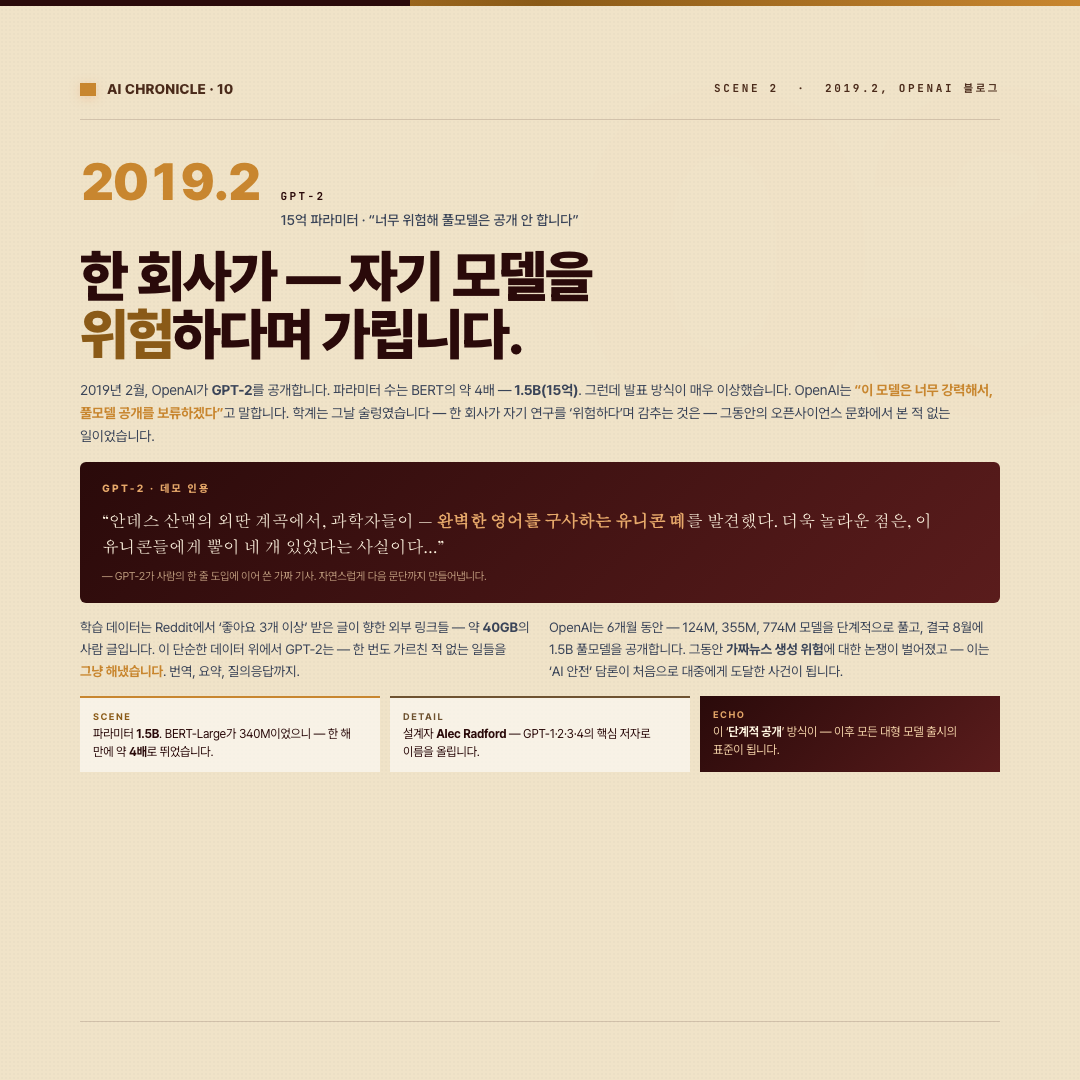
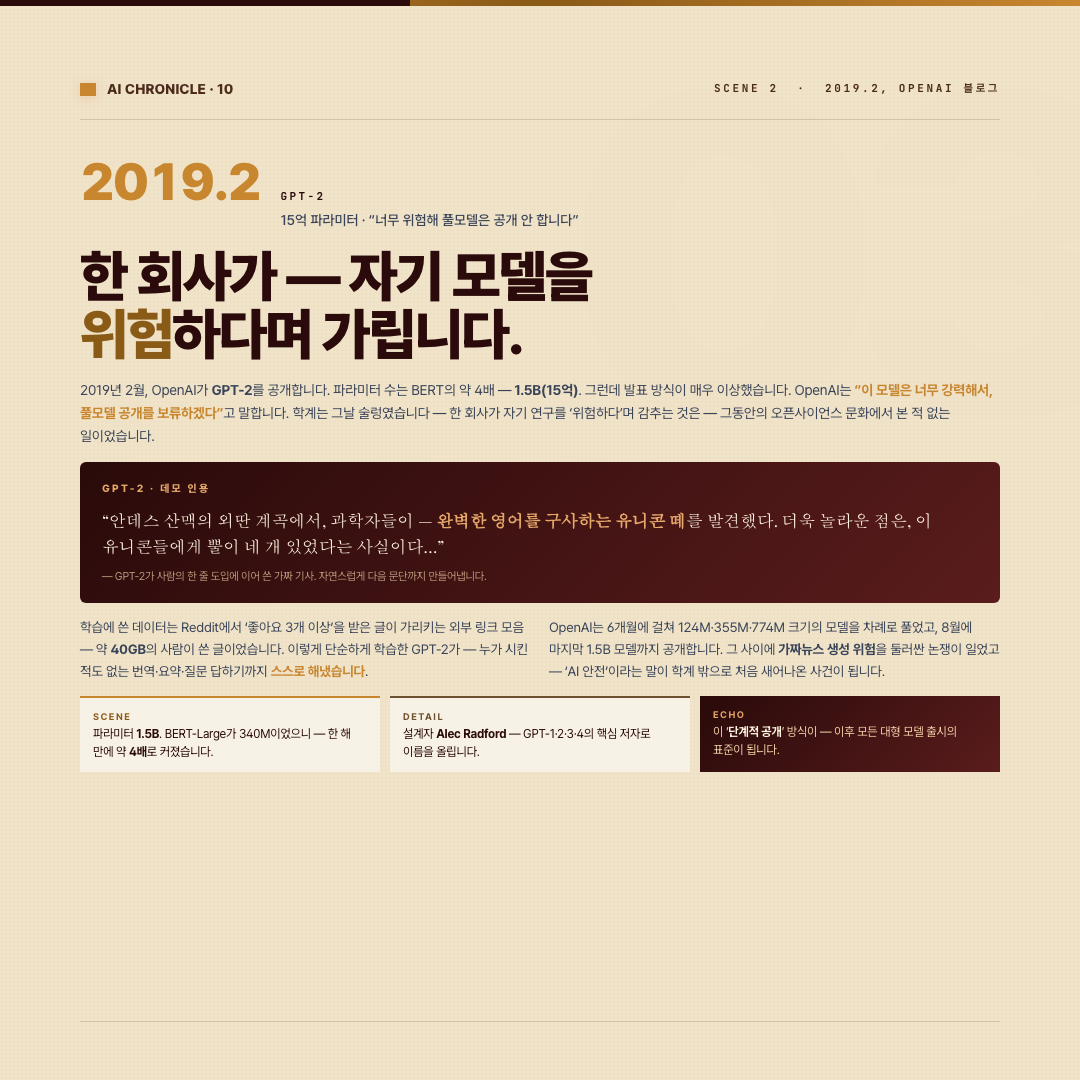
fix(chronicle 10—15): 번역투 다듬기 — 'Reddit 40GB 사람 글' 등 어색한 dash·명사끝맺음 수정
- '향한 외부 링크들 — 약 40GB의 사람 글' → '가리키는 외부 링크 모음, 40GB의 사람이 쓴 글'
- '그냥 해냈습니다 / 번역, 요약, 질의응답까지' → '스스로 해냈습니다 / 누가 시킨 적도 없는 일까지'
- '담론' → '이야기' / '도달' → '퍼짐' / '뛰었습니다' → '커졌습니다'
- 'X — Y이 됩니다' dash 강조 줄이고 자연스러운 문장으로
- 9개 카드 패턴 일괄 치환

Changed region(s): [[0.0611, 0.55, 0.4889, 0.6417], [0.5194, 0.55, 0.9167, 0.6417]]

diff --git a/chronicle-10-cards-gpt/03-gpt2.html b/chronicle-10-cards-gpt/03-gpt2.html
@@ -31,17 +31,17 @@
 
     <div class="split" style="grid-template-columns:1fr 1fr; gap:18px; margin-top:14px;">
       <div class="left">
-        <p class="body-sm" style="font-size:13.5px; line-height:1.6;">학습 데이터는 Reddit에서 ‘좋아요 3개 이상’ 받은 글이 향한 외부 링크들 — 약 <b>40GB</b>의 사람 글입니다. 이 단순한 데이터 위에서 GPT-2는 — 한 번도 가르친 적 없는 일들을 <em>그냥 해냈습니다</em>. 번역, 요약, 질의응답까지.</p>
+        <p class="body-sm" style="font-size:13.5px; line-height:1.6;">학습에 쓴 데이터는 Reddit에서 ‘좋아요 3개 이상’을 받은 글이 가리키는 외부 링크 모음 — 약 <b>40GB</b>의 사람이 쓴 글이었습니다. 이렇게 단순하게 학습한 GPT-2가 — 누가 시킨 적도 없는 번역·요약·질문 답하기까지 <em>스스로 해냈습니다</em>.</p>
       </div>
       <div class="right">
-        <p class="body-sm" style="font-size:13.5px; line-height:1.6;">OpenAI는 6개월 동안 — 124M, 355M, 774M 모델을 단계적으로 풀고, 결국 8월에 1.5B 풀모델을 공개합니다. 그동안 <b>가짜뉴스 생성 위험</b>에 대한 논쟁이 벌어졌고 — 이는 ‘AI 안전’ 담론이 처음으로 대중에게 도달한 사건이 됩니다.</p>
+        <p class="body-sm" style="font-size:13.5px; line-height:1.6;">OpenAI는 6개월에 걸쳐 124M·355M·774M 크기의 모델을 차례로 풀었고, 8월에 마지막 1.5B 모델까지 공개합니다. 그 사이에 <b>가짜뉴스 생성 위험</b>을 둘러싼 논쟁이 일었고 — ‘AI 안전’이라는 말이 학계 밖으로 처음 새어나온 사건이 됩니다.</p>
       </div>
     </div>
 
     <div style="margin-top:14px; display:grid; grid-template-columns:repeat(3, 1fr); gap:10px;">
       <div style="padding:11px 13px; background:rgba(255,255,255,0.55); border-top:2px solid var(--brand);">
         <div style="font-size:9.5px; letter-spacing:1.5px; color:var(--brand-deep); font-weight:700;">SCENE</div>
-        <div style="font-size:12px; line-height:1.5; color:var(--ink);">파라미터 <b>1.5B</b>. BERT-Large가 340M이었으니 — 한 해 만에 약 <b>4배</b>로 뛰었습니다.</div>
+        <div style="font-size:12px; line-height:1.5; color:var(--ink);">파라미터 <b>1.5B</b>. BERT-Large가 340M이었으니 — 한 해 만에 약 <b>4배</b>로 커졌습니다.</div>
       </div>
       <div style="padding:11px 13px; background:rgba(255,255,255,0.55); border-top:2px solid var(--ink-mid);">
         <div style="font-size:9.5px; letter-spacing:1.5px; color:var(--ink-mid); font-weight:700;">DETAIL</div>

diff --git a/chronicle-10-cards-gpt/04-gpt3.html b/chronicle-10-cards-gpt/04-gpt3.html
@@ -15,7 +15,7 @@
       <span class="year">2020.6</span>
       <span class="label"><b>GPT-3</b><span class="sub">1750억 파라미터 · 학습비 약 460만 달러</span></span>
     </div>
-    <h1 class="title sm">예시 — <em>몇 개</em>만 보여주면<br />새 일을 그냥 해냅니다.</h1>
+    <h1 class="title sm">예시 — <em>몇 개</em>만 보여주면<br />새 일을 스스로 해냅니다.</h1>
 
     <div class="split" style="grid-template-columns:1.1fr 1fr; gap:22px; margin-top:14px;">
       <div class="left">
@@ -49,7 +49,7 @@
     <div style="margin-top:14px; display:grid; grid-template-columns:repeat(3, 1fr); gap:10px;">
       <div style="padding:11px 13px; background:rgba(255,255,255,0.55); border-top:2px solid var(--brand);">
         <div style="font-size:9.5px; letter-spacing:1.5px; color:var(--brand-deep); font-weight:700;">SCENE</div>
-        <div style="font-size:12px; line-height:1.5; color:var(--ink);">학습 데이터는 — 인터넷의 거의 전부, 책, 위키 등 <b>약 5천억 토큰</b>.</div>
+        <div style="font-size:12px; line-height:1.5; color:var(--ink);">학습에 쓴 데이터는 — 인터넷의 거의 전부, 책, 위키 등 <b>약 5천억 토큰</b>.</div>
       </div>
       <div style="padding:11px 13px; background:rgba(255,255,255,0.55); border-top:2px solid var(--ink-mid);">
         <div style="font-size:9.5px; letter-spacing:1.5px; color:var(--ink-mid); font-weight:700;">DETAIL</div>

diff --git a/chronicle-13-cards-race/07-bridge.html b/chronicle-13-cards-race/07-bridge.html
@@ -29,7 +29,7 @@
       2024년의 군비경쟁은 디지털 안에 머물지 않았습니다. 같은 시기 NVIDIA의 Jensen Huang은 — ‘<em>Physical AI</em>’라는 새 단어를 던집니다. 화면 안의 AI에서 — 로봇·자동차·공장의 AI로 무대가 옮아간다는 선언이었습니다.
     </p>
     <p class="closing" style="margin-top:12px;">
-      1986년 MIT의 Rodney Brooks가 「<em>Elephants Don’t Play Chess</em>」에서 던진 질문 — <b>진짜 지능은 몸과 환경의 상호작용에서 나온다</b> — 의 응답이 이제 옵니다. Boston Dynamics의 Atlas, Tesla의 Optimus, Figure의 휴머노이드들이 — 같은 무대에 오릅니다.
+      1986년 MIT의 Rodney Brooks가 「<em>Elephants Don’t Play Chess</em>」에서 던진 질문 — <b>진짜 지능은 몸과 환경의 상호작용에서 나온다</b> — 의 응답이 이때 옵니다. Boston Dynamics의 Atlas, Tesla의 Optimus, Figure의 휴머노이드들이 — 같은 무대에 오릅니다.
     </p>
     <p class="closing" style="margin-top:14px; padding:14px 18px; background:linear-gradient(135deg, #0b1a3a 0%, #1a2f5a 100%); color:#dde6f5; border-radius:6px;">
       다음 호 — <b style="color:#ffffff;">Chronicle 14 · 피지컬 AI</b>. 자율주행에서 휴머노이드까지 — <em style="color:#a8c1ed;">AI가 몸을 가집니다</em>.

diff --git a/chronicle-12-cards-capital/07-bridge.html b/chronicle-12-cards-capital/07-bridge.html
@@ -30,7 +30,7 @@
       비영리에서 영리로의 전환은 OpenAI 한 회사의 이야기였지만, 그 변화가 만들어낸 자본의 회로는 — 분야 전체를 다른 풍경으로 끌고 갑니다. 마이크로소프트가 OpenAI를 잡고, 구글이 Gemini로 답하고, 메타가 Llama를 오픈소스로 풀고, Anthropic이 ‘<em>안전</em>’을 명분으로 자본을 끌어모읍니다.
     </p>
     <p class="closing" style="margin-top:12px;">
-      그리고 머스크의 <em>xAI</em>도, 중국의 <em>DeepSeek</em>도 — 같은 정상을 향해 출발합니다. 한때 한 연구소의 목표였던 ‘<b>AGI</b>’가 이제 — 다섯 회사, 두 국가의 군비경쟁이 됩니다.
+      그리고 머스크의 <em>xAI</em>도, 중국의 <em>DeepSeek</em>도 — 같은 곳을 향해 출발합니다. 한때 한 연구소의 목표였던 ‘<b>AGI</b>’가 이제 — 다섯 회사, 두 국가의 군비경쟁이 됩니다.
     </p>
     <p class="closing" style="margin-top:14px; padding:14px 18px; background:linear-gradient(135deg, #1a2a4a 0%, #2a3a6a 100%); color:#e6e0d6; border-radius:6px;">
       다음 호 — <b style="color:#fff5e1;">Chronicle 13 · AGI 군비경쟁</b>. 2023~2024, 회사들이 경주를 시작합니다.

diff --git a/chronicle-15-cards-today/04-autonomy.html b/chronicle-15-cards-today/04-autonomy.html
@@ -39,7 +39,7 @@
       <div style="padding:14px 16px; background:linear-gradient(135deg, rgba(227,82,5,0.10), rgba(255,228,208,0.5)); border-left:3px solid var(--brand);">
         <div style="font-size:10.5px; letter-spacing:0.16em; color:var(--brand-deep); font-weight:800;">새 직업의 등장</div>
         <div style="font-size:12.5px; line-height:1.6; color:var(--ink); margin-top:6px;">
-          <b style="color:var(--navy);">에이전트 모니터링자</b> &mdash; 자율로 움직이는 AI의 행동을 사람이 옆에서 지켜봅니다<br />
+          <b style="color:var(--navy);">에이전트 모니터링자</b> &mdash; 자율로 움직이건 AI의 행동을 사람이 옆에서 지켜봅니다<br />
           <b style="color:var(--navy);">프롬프트 디자이너</b> &mdash; 에이전트에게 시킬 목표를 정확한 문장으로 만드는 일<br />
           <b style="color:var(--navy);">워크플로 매니저</b> &mdash; 여러 에이전트가 협업하는 회사의 흐름을 짜는 사람
         </div>

diff --git a/chronicle-11-cards-chatgpt/06-paradigm.html b/chronicle-11-cards-chatgpt/06-paradigm.html
@@ -40,7 +40,7 @@
         <div style="padding:14px 16px; background:linear-gradient(135deg, #2a0a0a, #5a1c1c); color:#f3d2a8; border-radius:4px; height:100%;">
           <div style="font-size:10.5px; letter-spacing:0.16em; color:#e6a86a; font-weight:800;">자본 · Microsoft</div>
           <div style="font-size:14px; font-weight:700; color:#fff5e1; margin-top:4px;">100억 달러 추가 투자</div>
-          <p style="font-size:12.5px; line-height:1.55; margin-top:6px; color:#f3d2a8;">2023년 1월, OpenAI에 약 <b style="color:#fff5e1;">100억 달러</b>를 추가로 넣겠다고 발표. 한 회사가 다른 한 회사에 묶이는 — 인터넷 이후 가장 큰 결혼.</p>
+          <p style="font-size:12.5px; line-height:1.55; margin-top:6px; color:#f3d2a8;">2023년 1월, OpenAI에 약 <b style="color:#fff5e1;">100억 달러</b>를 추가로 넣겠다고 발표. 한 회사가 다른 한 회사에 묶이건 — 인터넷 이후 가장 큰 결혼.</p>
         </div>
       </div>
     </div>

diff --git a/chronicle-10-cards-gpt/06-paradigm.html b/chronicle-10-cards-gpt/06-paradigm.html
@@ -26,7 +26,7 @@
         <div style="padding:14px 16px; background:rgba(255,255,255,0.55); border-top:3px solid var(--brand); border-radius:4px; height:100%;">
           <div style="font-size:10.5px; letter-spacing:0.16em; color:var(--brand-deep); font-weight:800;">언어 NLP</div>
           <div style="font-size:14px; font-weight:700; color:var(--navy); margin-top:4px;">BERT · GPT · T5</div>
-          <p style="font-size:12.5px; line-height:1.55; margin-top:6px; color:var(--ink-soft);">번역·요약·질의응답 — 모두 같은 사전학습 파이프라인 위로 옮겨옵니다. 분야 경계가 허물어집니다.</p>
+          <p style="font-size:12.5px; line-height:1.55; margin-top:6px; color:var(--ink-soft);">번역·요약·질문 답하기 — 모두 같은 사전학습 파이프라인 위로 옮겨옵니다. 분야 경계가 허물어집니다.</p>
         </div>
       </div>
       <div>

diff --git a/chronicle-15-cards-today/02-computer-use.html b/chronicle-15-cards-today/02-computer-use.html
@@ -53,7 +53,7 @@
       </div>
       <div style="padding:11px 13px; background:linear-gradient(135deg, #2a0a0a, #5a1c1c); color:#f3d2a8;">
         <div style="font-size:9.5px; letter-spacing:1.5px; color:#e6a86a; font-weight:700;">ECHO</div>
-        <div style="font-size:12px; line-height:1.5;">그러나 &mdash; <b style="color:#fff5e1;">패러다임 전환의 첫 시연</b>. 다른 회사들은 다음 분기부터 따라옵니다.</div>
+        <div style="font-size:12px; line-height:1.5;">그러나 &mdash; <b style="color:#fff5e1;">큰 흐름이 바뀌는 첫 신호</b>. 다른 회사들은 다음 분기부터 따라옵니다.</div>
       </div>
     </div>
 

diff --git a/chronicle-15-cards-today/06-human-place.html b/chronicle-15-cards-today/06-human-place.html
@@ -13,7 +13,7 @@
     </div>
     <div class="era">
       <span class="year">1739 &rarr; 오늘</span>
-      <span class="label"><b>Human Place</b><span class="sub">14호의 흐름이 모이는 한 자리</span></span>
+      <span class="label"><b>Human Place</b><span class="sub">14호의 흐름이 모이건 한 자리</span></span>
     </div>
     <h1 class="title sm">90년의 흐름이 &mdash; 결국<br /><em>한 자리</em>를 가리킵니다.</h1>
 
